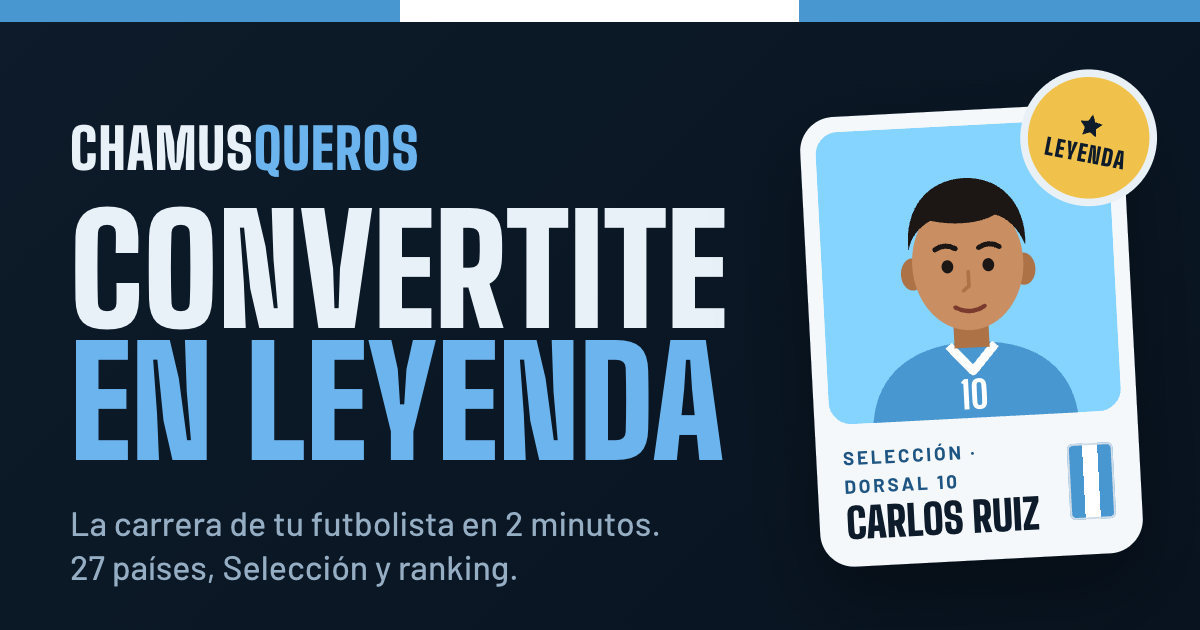
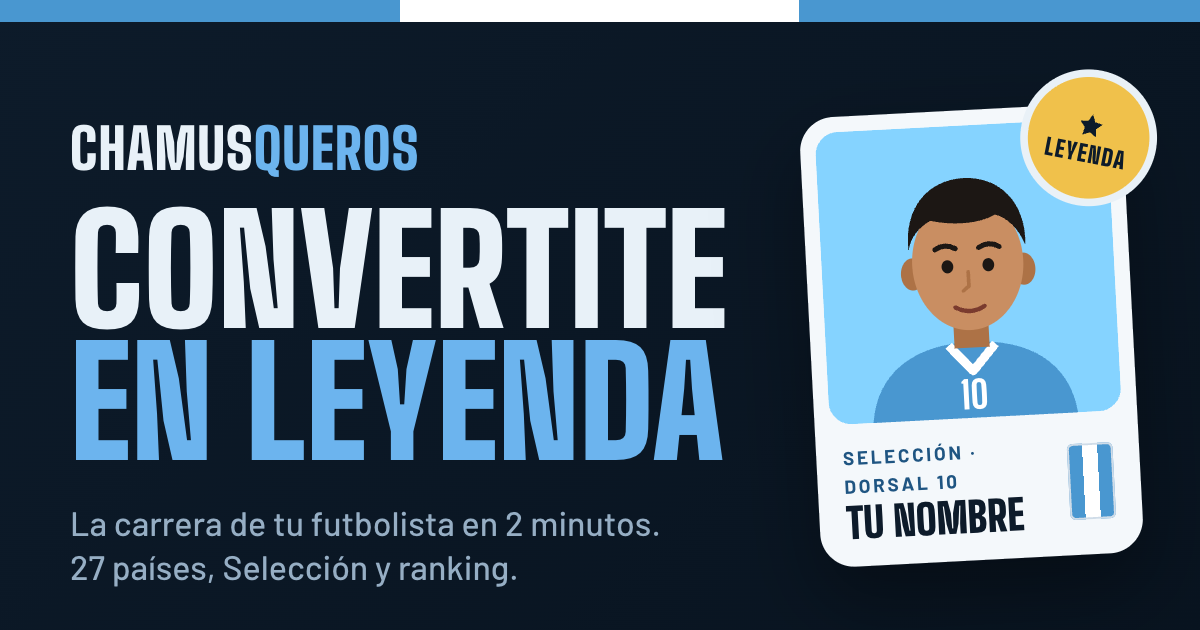
Usar nombres ficticios y mencionar la fase final del Mundial en el Home
La carta de ejemplo y og.png dejan de usar el nombre de una persona real
(spec D8). El bloque de Selección menciona la fase final del Mundial, las
copas continentales y la Liga de Naciones, y el palmarés habla de títulos de
club y de selección (spec D6, tras integrar el PR #5).

Claude-Session: https://claude.ai/code/session_01RBqaqnLLPBNYYdoTFKs6Qp

Changed region(s): [[0.7092, 0.7841, 0.8633, 0.8746]]

diff --git a/src/main.ts b/src/main.ts
@@ -189,7 +189,7 @@ interface BestCareer { name: string; verdict: string; score: number; goals: numb
 
 /** Carta de ejemplo de la landing: constante, sin datos del usuario. */
 const DEMO_CARD: RankRow = {
-  pos: 1, name: 'Carlos Ruiz', score: 175, titles: 6, caps: 48, avatar: null, me: false,
+  pos: 1, name: 'Chepe Chamusquero', score: 175, titles: 6, caps: 48, avatar: null, me: false,
   card: { pos: 'DEL', ovr: 88, club: 'municipal', dept: 'Guatemala', foot: 'Derecho', apps: 512, goals: 231, assists: 94, country: 'GT' },
 };
 
@@ -240,11 +240,11 @@ function home() {
       </div>
       <div class="feat">
         <h3>Selección y Mundial</h3>
-        <p>Si rendís, te convocan: eliminatorias mundialistas y el Mundial con tu país.</p>
+        <p>Si rendís, te convocan: eliminatorias, copas continentales y, según tu país, la Liga de Naciones. Llegá a la fase final del Mundial y salí campeón.</p>
       </div>
       <div class="feat">
         <h3>Palmarés</h3>
-        <p>Títulos de liga y copa, y premios individuales: ${AWARD_LABEL.mvp}, ${AWARD_LABEL.goleador}, ${AWARD_LABEL.ideal} y más.</p>
+        <p>Títulos de club y de selección, y premios individuales: ${AWARD_LABEL.mvp}, ${AWARD_LABEL.goleador}, ${AWARD_LABEL.ideal} y más.</p>
       </div>
       <div class="feat">
         <h3>Carta de FC</h3>

diff --git a/specs/home-landing/spec.md b/specs/home-landing/spec.md
@@ -10,8 +10,9 @@ Valor: que un visitante nuevo entienda el juego en 10 segundos y empiece una car
 - **D3** Sin imágenes pesadas ni dependencias nuevas: se reusan avatar SVG, banderas y carta de FC. Única pieza nueva: una imagen estática para Open Graph.
 - **D4** Sin publicidad: el usuario eliminará AdSense por completo (`src/ui/ads.ts` y `adSlot()`, en la feature de donación, otra rama). La landing no incluye `adSlot('home')` ni reserva espacio para anuncios. Si esta feature se implementa antes, solo se quita la llamada de `home()` y el módulo se deja para la otra rama.
 - **D5** Teaser del ranking = las mejores carreras guardadas en el dispositivo (sin red). Para un visitante nuevo, un texto que explica el ranking y el acceso. El Home no llama a la API del ranking (evita carga en la base y datos ajenos en la portada).
-- **D6** El texto describe solo lo que el juego tiene hoy: 27 países con equipos reales, Selección con eliminatorias mundialistas y Mundial, palmarés con títulos y premios individuales, carta de FC, ranking global. No promete fase final del Mundial (está en otra rama, aún sin integrar).
+- **D6** El texto describe solo lo que el juego tiene hoy: 27 países con equipos reales, Selección con eliminatorias mundialistas, copas continentales, Liga de Naciones (solo Concacaf y UEFA) y Mundial con fase final y título, palmarés con títulos de club y de selección y premios individuales, carta de FC, ranking global. La fase final del Mundial ya está integrada (PR #5).
 - **D7** Los enlaces nuevos del footer (donación, términos) son de otras features; esta no toca `footer()`. Como sus enlaces van apilados en párrafos, hay lugar para más.
+- **D8** El material promocional (carta de ejemplo, `og.png`, textos) solo usa nombres ficticios; nunca el de una persona real, para no sugerir su respaldo ni suplantarla.
 
 ## Alcance
 Hero, "Cómo funciona", "Qué incluye", teaser de ranking/mejores carreras, cierre con segundo llamado y footer; etiquetas de título, descripción, Open Graph y Twitter; imagen OG.
@@ -22,7 +23,7 @@ Ruta o URL propia para la landing, navegación entre secciones, analítica, A/B,
 ## Requisitos funcionales
 - **RF-01** Hero: nombre, frase de valor, el avatar/sticker existente (más pequeño que hoy) y el botón "Empezar mi carrera".
 - **RF-02** "Cómo funciona": 3 pasos numerados (crear jugador, decidir en cada etapa de la carrera, ver su carta y compararla en el ranking).
-- **RF-03** "Qué incluye": 4 bloques: países con equipos reales (el número sale de la lista de países y se muestran 8 banderas), Selección con eliminatorias y Mundial, palmarés con títulos y premios individuales, carta de FC con ejemplo.
+- **RF-03** "Qué incluye": 4 bloques: países con equipos reales (el número sale de la lista de países y se muestran 8 banderas), Selección con eliminatorias, copas continentales, Liga de Naciones y Mundial con fase final, palmarés con títulos de club y de selección y premios individuales, carta de FC con ejemplo.
 - **RF-04** Mejores carreras: con carreras guardadas, muestra hasta 3 (nombre, veredicto, puntos) y el acceso "Ver ranking"; sin ellas, un texto del ranking global (una carrera por jugador, gana quien tenga más puntos) y el mismo acceso.
 - **RF-05** Cierre: segundo botón "Empezar mi carrera" tras las secciones, luego el footer sin cambios.
 - **RF-06** Todo texto de localStorage o de red se muestra escapado (nunca como HTML).
@@ -53,4 +54,4 @@ Ruta o URL propia para la landing, navegación entre secciones, analítica, A/B,
 ## Aclaraciones resueltas
 - **Ranking:** no hay premios por posición. "Qué incluye" habla solo de los premios individuales del palmarés (Mejor jugador, Goleador, etc.) y del ranking global como tabla.
 - **Dominio:** el sitio se queda en `https://chamusqueros.vercel.app`; se usa en `og:*`, `twitter:*` y `canonical`.
-- **Fase final del Mundial:** se mantiene D6. Todavía no se menciona; el bloque "Selección" se actualiza cuando se integre la rama `eliminatorias-selecciones`.
+- **Fase final del Mundial:** el PR #5 ya se integró; D6 se actualizó y el bloque "Selección" la menciona (fase final y título del Mundial, copas continentales y Liga de Naciones).

diff --git a/specs/home-landing/plan.md b/specs/home-landing/plan.md
@@ -5,7 +5,7 @@ Stack: el del repo (TypeScript vanilla, Vite, CSS, strings HTML con `render()`).
 ## Cómo (por RF)
 - **RF-01 / CA-1** `home()` reordena: marca, `h1` + frase, botón (`data-go="start"`) y fila "Tu récord"/"Ver ranking", y el sticker debajo de ellos a ~170 px de ancho (hoy 250 px; el avatar pasa de 234 a ~150). Así el botón queda alto sin depender del tamaño del avatar. La altura de hoy no está medida; se mide en T5 y, si no entra en 560 px, se reduce el `h1` (`clamp`) antes que quitar contenido.
 - **RF-02** `<section>` con `h2` y `<ol class="steps">` de 3 elementos (texto fijo).
-- **RF-03** `<section>` con 4 tarjetas `.feat`: (1) `COUNTRIES.length` países + 8 `<img>` de flagcdn con la clase de `flag()` (el código sale de `COUNTRIES[i].flag`, mismos `loading="lazy"`); (2) Selección con eliminatorias y Mundial; (3) palmarés: títulos y premios individuales (`AWARD_LABEL`); (4) carta de FC: `futCard()` con una fila de ejemplo constante (`RankRow` fija, rotulada "Ejemplo"), sin datos de usuario. Si `.fut` no se ve bien en 328 px, se escala por CSS; si no cabe, se cambia por una descripción (no se rediseña la carta).
+- **RF-03** `<section>` con 4 tarjetas `.feat`: (1) `COUNTRIES.length` países + 8 `<img>` de flagcdn con la clase de `flag()` (el código sale de `COUNTRIES[i].flag`, mismos `loading="lazy"`); (2) Selección con eliminatorias, copas continentales, Liga de Naciones y Mundial con fase final; (3) palmarés: títulos de club y de selección y premios individuales (`AWARD_LABEL`); (4) carta de FC: `futCard()` con una fila de ejemplo constante (`RankRow` fija, rotulada "Ejemplo"), sin datos de usuario. Si `.fut` no se ve bien en 328 px, se escala por CSS; si no cabe, se cambia por una descripción (no se rediseña la carta).
 - **RF-04 / D5** Sección de mejores carreras: lee `store<BestCareer[]>(BEST_KEY, [])`, `slice(0, 3)`, cada fila con `esc(name)`, `esc(verdict)`, `Number(score) || 0`. Vacío: párrafo con la regla del ranking. El acceso al ranking es un botón en esta sección (y el enlace "Ranking ›" de "Tu récord" arriba, como hoy). Los botones de acción llevan `data-go="start"` o `data-go="ranking"` y los handlers se atan con `querySelectorAll`, porque ahora hay más de un botón por acción (los ids únicos `start` y `ranking` se reemplazan por `data-go`).
 - **RF-05** Segundo botón `data-go="start"` antes de `${footer()}`. `footer()` no cambia (D7).
 - **RF-06 / A03** Ver Seguridad.
